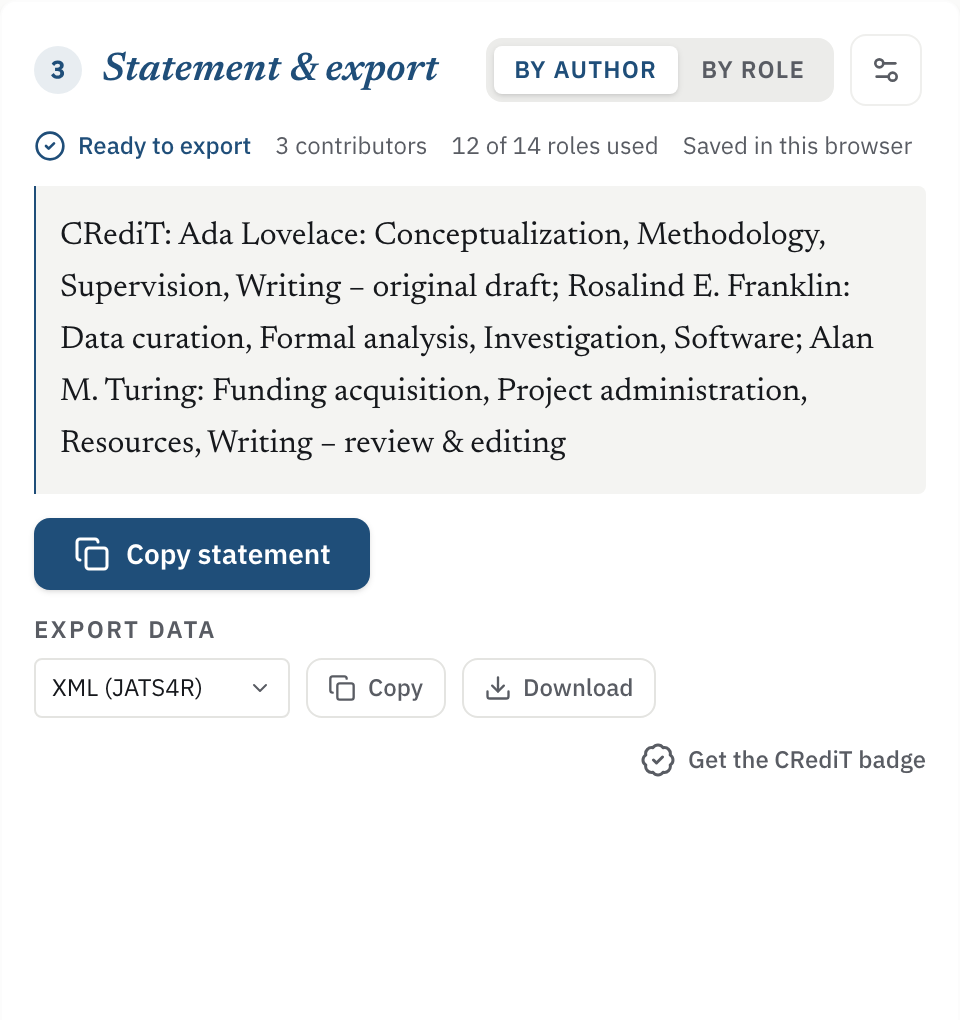
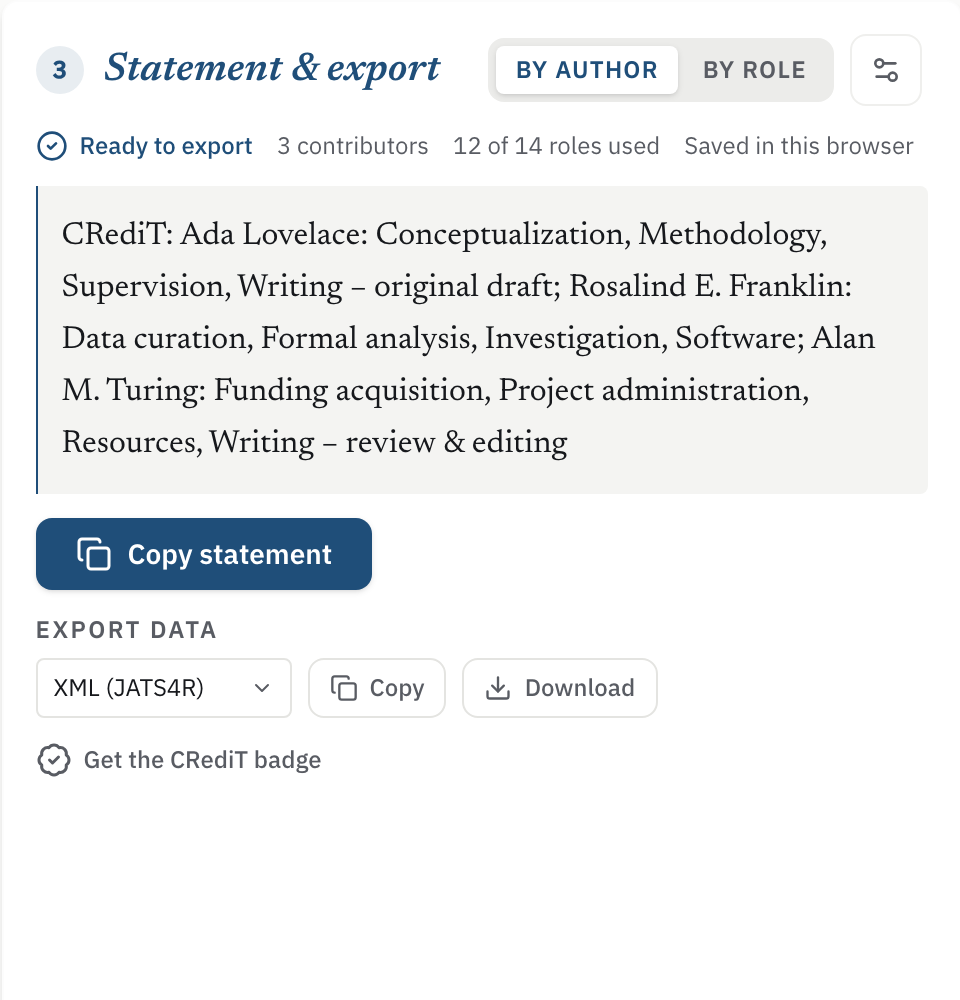
feat(layout): uncap the page, size the matrix to its roster
- no page-width cap: the workflow row is content-sized and centered, so
  a big roster gets the screen and a small one gets symmetric gutters
- heatmap options sit on one line; the CRediT badge gets its own line
  instead of dangling off the export row
- the stays-in-this-browser note goes: the Drafts menu already says it,
  where deletion lives
- DESIGN.md layout rules updated; screenshots refreshed

diff --git a/src/app/layout.tsx b/src/app/layout.tsx
@@ -78,7 +78,7 @@ export default function RootLayout({ children }: { children: React.ReactNode }) 
             {/* pr compensates the scrollbar width modal primitives remove on open; the fixed
               header escapes the body padding that keeps <main> from reflowing. */}
             <header className="fixed top-0 w-full z-50 bg-surface-bright/80 backdrop-blur-md border-b border-outline-variant/20 pr-[var(--removed-body-scroll-bar-size,0px)]">
-              <div className="mx-auto flex h-13 max-w-[100rem] items-center justify-between gap-2 px-3 sm:px-8">
+              <div className="mx-auto flex h-13 items-center justify-between gap-2 px-3 sm:px-8">
                 {/* Brand */}
                 <div className="flex items-center gap-8">
                   <h1 className="flex items-center gap-2.5 text-primary">
@@ -113,7 +113,10 @@ export default function RootLayout({ children }: { children: React.ReactNode }) 
               (see the `desk` variant): the page itself never scrolls, and each of the
               three panes scrolls its own content. Narrow, short, or zoomed viewports
               keep ordinary document flow. */}
-            <main id="main-content" className="mx-auto max-w-[100rem] pt-13 desk:h-dvh desk:overflow-hidden">
+            {/* No page cap: the workflow row sizes itself to its content and
+                centers, so a big monitor goes to the matrix when the roster
+                needs it and to symmetric gutters when it does not. */}
+            <main id="main-content" className="mx-auto pt-13 desk:h-dvh desk:overflow-hidden">
               {children}
             </main>
             <Announcer />

diff --git a/src/app/page.tsx b/src/app/page.tsx
@@ -16,14 +16,16 @@ export default function HomePage() {
 
           The statement never spans a full-width row: its prose is capped at 75ch
           for readability, so a wide column would wrap the text at half its
-          width and leave the rest empty. The statement column is therefore
-          clamped (26–30rem) and the *matrix* absorbs the leftover width — it
-          is the pane that actually grows with more contributors, and every
-          column it gains is one less it has to scroll.
+          width and leave the rest empty. Contributors and statement are
+          therefore clamped, and the matrix column takes exactly the width its
+          roster needs (minmax(0,max-content)): a wide monitor goes to more
+          visible columns when there are many contributors, and to centered
+          gutters (justify-center) when there are not. Narrower windows shrink
+          the matrix into its own scroller instead of overflowing the page.
 
           `desk` additionally locks the row to the viewport height; each pane
           scrolls its own content from there. */}
-      <div className="flex flex-col gap-3 p-3 md:gap-4 md:p-4 xl:grid xl:grid-cols-[21rem_minmax(0,1fr)_minmax(26rem,30rem)] xl:items-start desk:h-full desk:items-stretch desk:overflow-hidden">
+      <div className="flex flex-col gap-3 p-3 md:gap-4 md:p-4 xl:grid xl:grid-cols-[21rem_minmax(0,max-content)_minmax(26rem,30rem)] xl:items-start xl:justify-center desk:h-full desk:items-stretch desk:overflow-hidden">
         <LabelledSection labelKey="stepContributors" className="min-w-0 desk:min-h-0">
           <AuthorList />
         </LabelledSection>

diff --git a/src/components/steps/StatementOutput.tsx b/src/components/steps/StatementOutput.tsx
@@ -320,7 +320,9 @@ export function StatementOutput() {
           </div>
         </div>
 
-        <CreditBadge className="sm:ml-auto flex items-center gap-1.5 text-xs font-medium text-on-surface-variant hover:text-primary transition-colors" />
+        {/* Its own left-aligned line: hung off the right edge it read as a
+            dangling leftover of the export row rather than a quiet extra. */}
+        <CreditBadge className="basis-full flex items-center gap-1.5 text-xs font-medium text-on-surface-variant hover:text-primary transition-colors" />
       </div>
     </div>
   );

diff --git a/src/components/steps/AuthorInput.tsx b/src/components/steps/AuthorInput.tsx
@@ -495,11 +495,8 @@ export function AuthorList() {
         </div>
       )}
 
-      {/* Deleting a paper is the Drafts menu's job; a second, in-pane clear
-          flow duplicated it with worse affordances. The privacy fact stays. */}
-      <div className="mt-3 border-t border-outline-variant/20 pt-3">
-        <p className="text-xs text-on-surface-variant">{t("draftStaysLocal")}</p>
-      </div>
+      {/* No footer note: the Drafts menu already says drafts stay in this
+          browser, right where deleting them lives. */}
     </div>
   );
 }

diff --git a/src/components/steps/ContributionGrid.tsx b/src/components/steps/ContributionGrid.tsx
@@ -451,7 +451,7 @@ export function ContributionGrid() {
               >
                 <Settings2 className="size-4" aria-hidden="true" />
               </PopoverTrigger>
-              <PopoverContent align="end" className="flex w-64 flex-wrap items-center gap-3">
+              <PopoverContent align="end" className="flex w-auto max-w-[calc(100vw-2rem)] flex-wrap items-center gap-3">
                 <ColorPopover
                   value={heatmapMonoColor}
                   onChange={setHeatmapMonoColor}

diff --git a/DESIGN.md b/DESIGN.md
@@ -114,12 +114,14 @@ Follow the task order: contributors, contributions, then statement and export.
 
 Use one column on small screens. From `xl`, give all three steps their own column, so the workflow
 reads left to right. Never give the statement a full-width row. Its prose is capped at 75ch, so a
-wide column wraps the text at half its width and leaves the rest empty. Clamp the statement column
-instead, and let the matrix absorb the leftover width: it is the pane that grows with more
-contributors, and every column it gains is one less it has to scroll.
+wide column wraps the text at half its width and leaves the rest empty. Clamp the contributors and
+statement columns, and size the matrix to its roster: with many contributors it takes the screen
+(every visible column is one it does not scroll), and with few, the content-sized row centers in
+symmetric gutters rather than stretching cells to fill.
 
-Let the page use the screen it's given, up to `100rem`. A cap that holds until a late breakpoint
-letterboxes the laptops this workspace is built for.
+Let the page use the screen it's given. There is no page-width cap: the workflow row is
+content-sized and centered, so unused width shows up as symmetric gutters, and a roster that needs
+the width gets all of it.
 
 On a desktop-sized window the workspace is height-locked to the viewport. The page itself doesn't
 scroll; each pane scrolls its own content.
